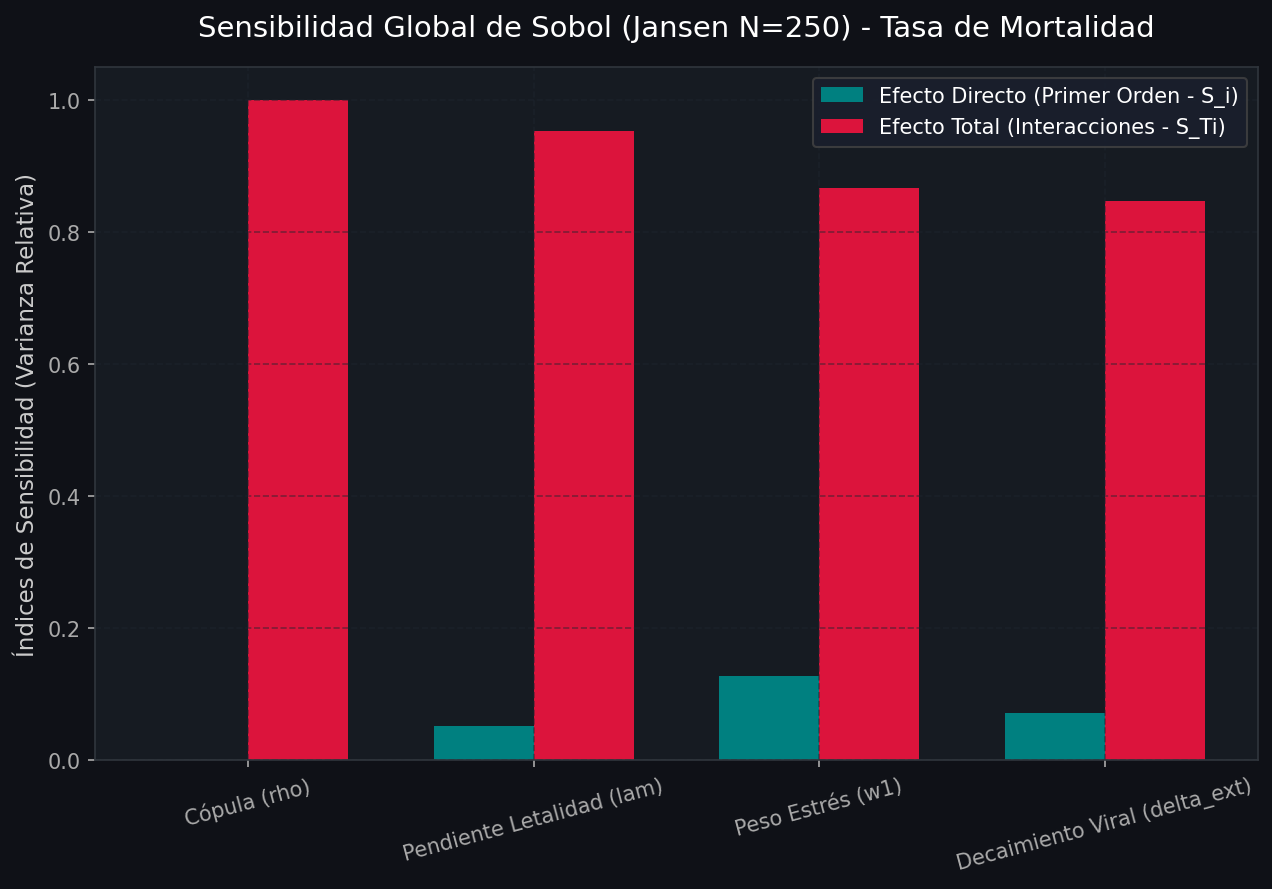
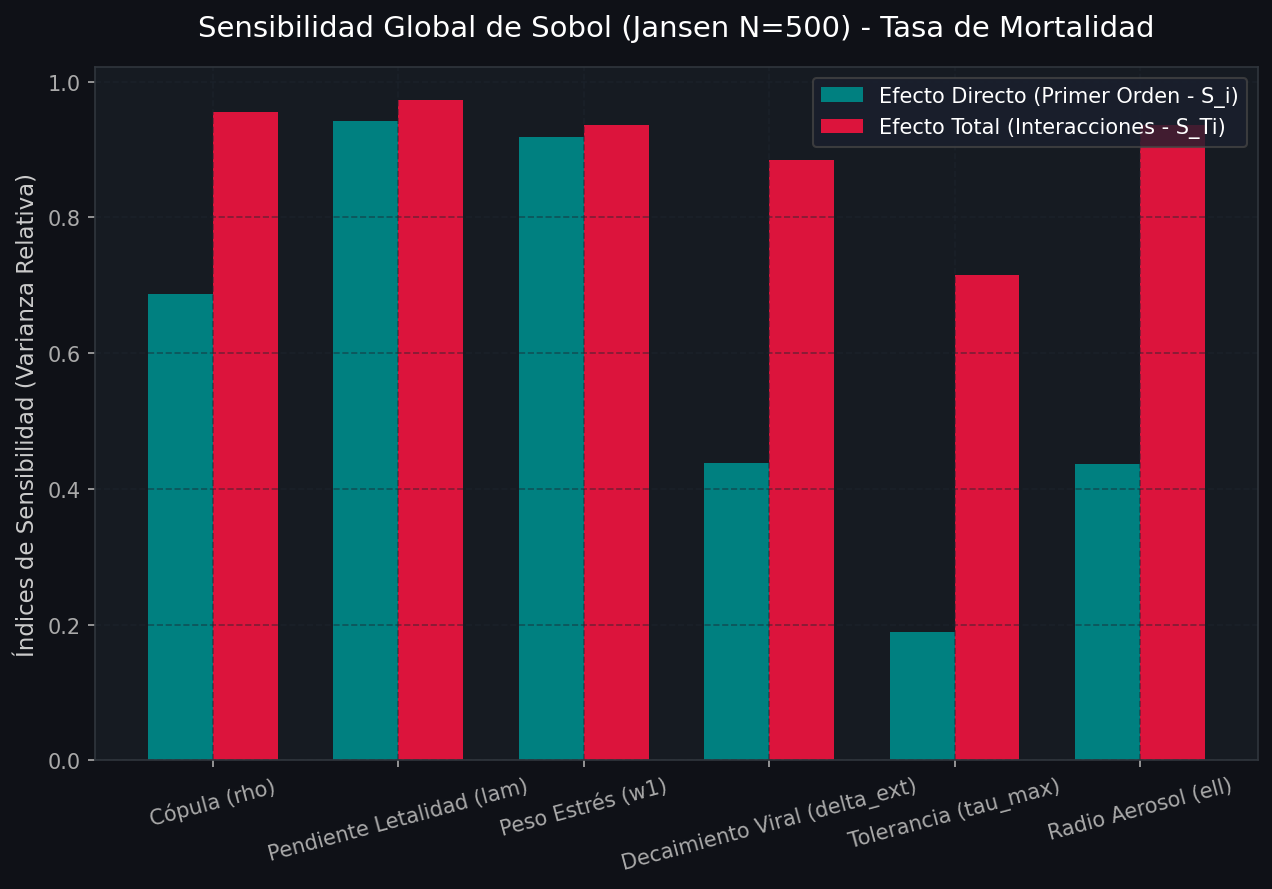
docs: expandir descripcion conceptual e inyeccion de parametros de los 8 patogenos en document.md

diff --git a/document.md b/document.md
@@ -471,15 +471,67 @@ El parámetro de higiene personal $\eta_{hig} \in [0, 1]$ representa el aumento 
 
 ---
 
-### 3. Catálogo de Patógenos Unificado
+### 3. Catálogo de Patógenos y Modelado Conceptual
 
-Para garantizar consistencia biológica, las características clínicas intrínsecas del virus se definen en una estructura inmutable `VirusProfile`. Al seleccionar un virus del catálogo, todas sus constantes físicas y clínicas se inyectan en los simuladores:
+Para garantizar consistencia biológica, las características clínicas e infectivas intrínsecas de cada patógeno se definen bajo la estructura inmutable `VirusProfile`. Al seleccionar un virus del catálogo, todas sus constantes físicas y de letalidad se inyectan en los simuladores. 
 
-| Patógeno | Tolerancia ($\tau_{max}$) | Radio Aerosol ($\ell$) | Decaimiento ($\delta_{ext}$) | Incubación ($k_E, p_E$) | Letalidad ($\lambda$) | Inmunidad ($\mu_R, M_R$) |
-|---|---|---|---|---|---|---|
-| **Sarampión** | Baja ($2.0$) | Muy Alto ($4.0$ m) | Lento ($0.3$) | $k=2, p=0.1$ (~18 días) | Alta ($7.0$) | Vitalicia (~300 años) |
-| **COVID-19 Delta** | Media ($6.0$) | Alto ($2.5$ m) | Medio ($1.5$) | $k=2, p=0.4$ (~3 días) | Media ($5.0$) | Corta (~120 días) |
-| **Influenza Estacional** | Alta ($15.0$) | Bajo ($1.2$ m) | Rápido ($2.5$) | $k=2, p=0.6$ (~1.3 días) | Baja ($2.5$) | Media (~365 días) |
+A continuación se detalla la descripción conceptual y la parametrización de los patógenos modelados:
+
+#### 3.1 Sarampión (Measles)
+* **Descripción Conceptual:** Es la enfermedad viral de máxima contagiosidad humana por vía aérea. Se transmite a través de aerosoles extremadamente finos ($<5\mu\text{m}$) que quedan suspendidos en el aire y viajan largas distancias. Su dosis infectiva mínima es minúscula y genera inmunidad de por vida.
+* **Ecuaciones y Parámetros:**
+  * **Radio de Aerosol ($\ell = 4.0$ m):** Define una pluma de propagación espacial de largo alcance.
+  * **Decaimiento Lento ($\delta_{cerrado} = 0.15$):** Refleja la estabilidad del virus en interiores, permaneciendo viable más de 2 horas en aire estancado.
+  * **Tolerancia Mínima ($\tau_{max} = 2.0$):** El umbral infeccioso es bajísimo, garantizando contagio casi inmediato al cruzarse con la pluma de aerosol.
+  * **Inmunidad Permanente ($\mu_R = 36500$):** Recuperados permanecen en $R$ de por vida (inmunidad adquirida robusta).
+
+#### 3.2 COVID-19 Delta (SARS-CoV-2 B.1.617.2)
+* **Descripción Conceptual:** Variante caracterizada por una alta replicación viral y transmisión predominantemente aérea por aerosoles mixtos. Presenta fenómenos de superpropagación en espacios cerrados mal ventilados y pérdida de inmunidad acelerada (waning).
+* **Ecuaciones y Parámetros:**
+  * **Radio de Aerosol ($\ell = 2.5$ m):** Alcance espacial intermedio.
+  * **Decaimiento en Interiores ($\delta_{cerrado} = 0.5$):** Mayor viabilidad y persistencia en interiores en comparación con el exterior ($\delta_{ext} = 1.5$).
+  * **Tasa de Letalidad Moderada ($\lambda = 3.5$):** Curva logística de muerte sensible al daño acumulado por carga viral (AUC).
+  * **Pérdida de Inmunidad Corta ($\mu_R = 120$):** Simula el decaimiento de anticuerpos a los 4 meses post-infección.
+
+#### 3.3 Influenza Estacional (H3N2/H1N1)
+* **Descripción Conceptual:** Gripe común autolimitada. Se transmite principalmente a través de gotas grandes de saliva exhaladas al toser o estornudar, limitando su alcance espacial directo. Requiere una alta dosis de exposición y el virus es muy lábil a condiciones ambientales externas.
+* **Ecuaciones y Parámetros:**
+  * **Radio de Aerosol Corto ($\ell = 1.2$ m):** El contagio se acota al contacto cercano (gotas pesadas).
+  * **Inactivación Rápida ($\delta_{ext} = 4.0$):** El virus se inactiva rápidamente al salir del huésped, especialmente en exteriores ($\delta_{abierto} = 8.0$).
+  * **Tolerancia Elevada ($\tau_{max} = 15.0$):** Se requiere inhalar una cantidad masiva de viriones para superar la inmunidad de barrera inicial.
+
+#### 3.4 Gripe Pandémica 2009 (H1N1)
+* **Descripción Conceptual:** Cepa pandémica con un crecimiento explosivo inicial debido a la falta de inmunidad previa en población joven. Transmisión moderada y letalidad general baja, pero con propagación comunitaria veloz.
+* **Ecuaciones y Parámetros:**
+  * **Incubación Corta ($k_E = 2, p_E = 0.5$):** Periodo de latencia promedio de solo 2 días, facilitando un crecimiento exponencial acelerado de la curva epidemiológica.
+  * **Baja Letalidad ($\lambda = 0.2$):** Probabilidad de transición a fallecido ($D$) muy reducida.
+
+#### 3.5 Ébola (Ebolavirus cepa Zaire)
+* **Descripción Conceptual:** Fiebre hemorrágica viral de extrema letalidad. No se transmite por el aire en condiciones naturales; el contagio requiere contacto físico directo con fluidos corporales infectados (sangre, sudor, etc.).
+* **Ecuaciones y Parámetros:**
+  * **Radio de Aerosol Mínimo ($\ell = 0.25$ m):** Modela la transmisión exclusivamente por contacto directo o salpicadura en proximidad absoluta.
+  * **Letalidad Extrema ($\lambda = 12.0$):** La pendiente logística es masiva, disparando la mortalidad del agente enfermo a un rango del 50% al 90% según su inmunidad adaptativa.
+  * **Tolerancia Alta ($\tau_{max} = 28.0$):** Refleja la barrera de contagio en ausencia de contacto húmedo directo.
+
+#### 3.6 Tuberculosis (Mycobacterium tuberculosis DS)
+* **Descripción Conceptual:** Infección bacteriana crónica de progresión lenta y alta persistencia ambiental. Se propaga por núcleos goticulares finos que resisten la luz solar y la desecación durante horas o días.
+* **Ecuaciones y Parámetros:**
+  * **Persistencia Extrema ($\delta_{cerrado} = 0.05$):** La bacteria permanece suspendida y viable en espacios cerrados sin ventilación por periodos prolongados.
+  * **Incubación de Larga Latencia ($k_E = 4, p_E = 0.12$):** Periodo promedio en estado expuesto ($E$) de ~29 días (simulando la lenta transición a tuberculosis pulmonar activa).
+  * **Alta Resistencia Exterior ($\delta_{ext} = 0.08$):** La bacteria sobrevive significativamente fuera del huésped.
+
+#### 3.7 VIH/SIDA
+* **Descripción Conceptual:** Infección viral crónica caracterizada por el debilitamiento progresivo y permanente del sistema inmune (destrucción de linfocitos T CD4+). No existe recuperación natural y el contagio es únicamente por fluidos.
+* **Ecuaciones y Parámetros:**
+  * **Sin Recuperación ($\mu_R = 0$ y $M_R = 0$):** Transición a recuperado desactivada.
+  * **Latencia de Años ($k_E = 10, p_E = 0.001$):** Incubación promedio extremadamente larga para simular la fase de latencia asintomática de años antes de manifestarse la enfermedad.
+  * **Contacto Directo ($\ell = 0.0$):** Sin dispersión aérea alguna.
+
+#### 3.8 SARS-CoV-1 (2003)
+* **Descripción Conceptual:** Coronavirus con alta patogenicidad y letalidad. Se asocia fuertemente con eventos de superpropagación en entornos hospitalarios (transmisión nosocomial), facilitando su contención epidemiológica temprana mediante el aislamiento riguroso de casos clínicos evidentes.
+* **Ecuaciones y Parámetros:**
+  * **Radio Intermedio ($\ell = 2.0$ m):** Transmisión por proximidad física estrecha.
+  * **Letalidad Alta ($\lambda = 6.0$):** CFR global de referencia superior al 9%, provocando un colapso clínico rápido.
 
 ---
 